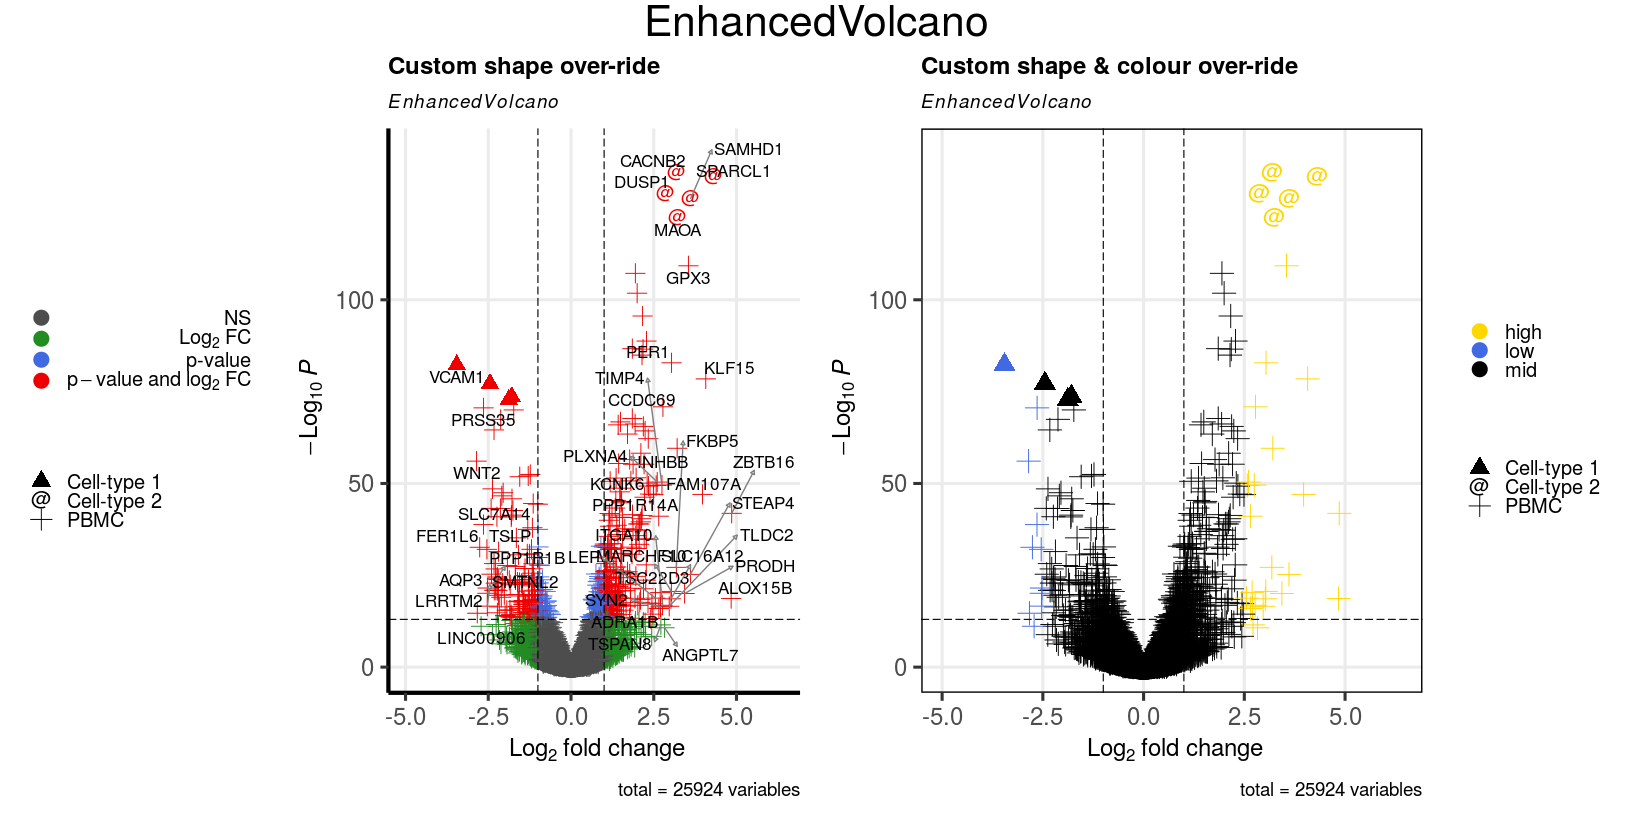
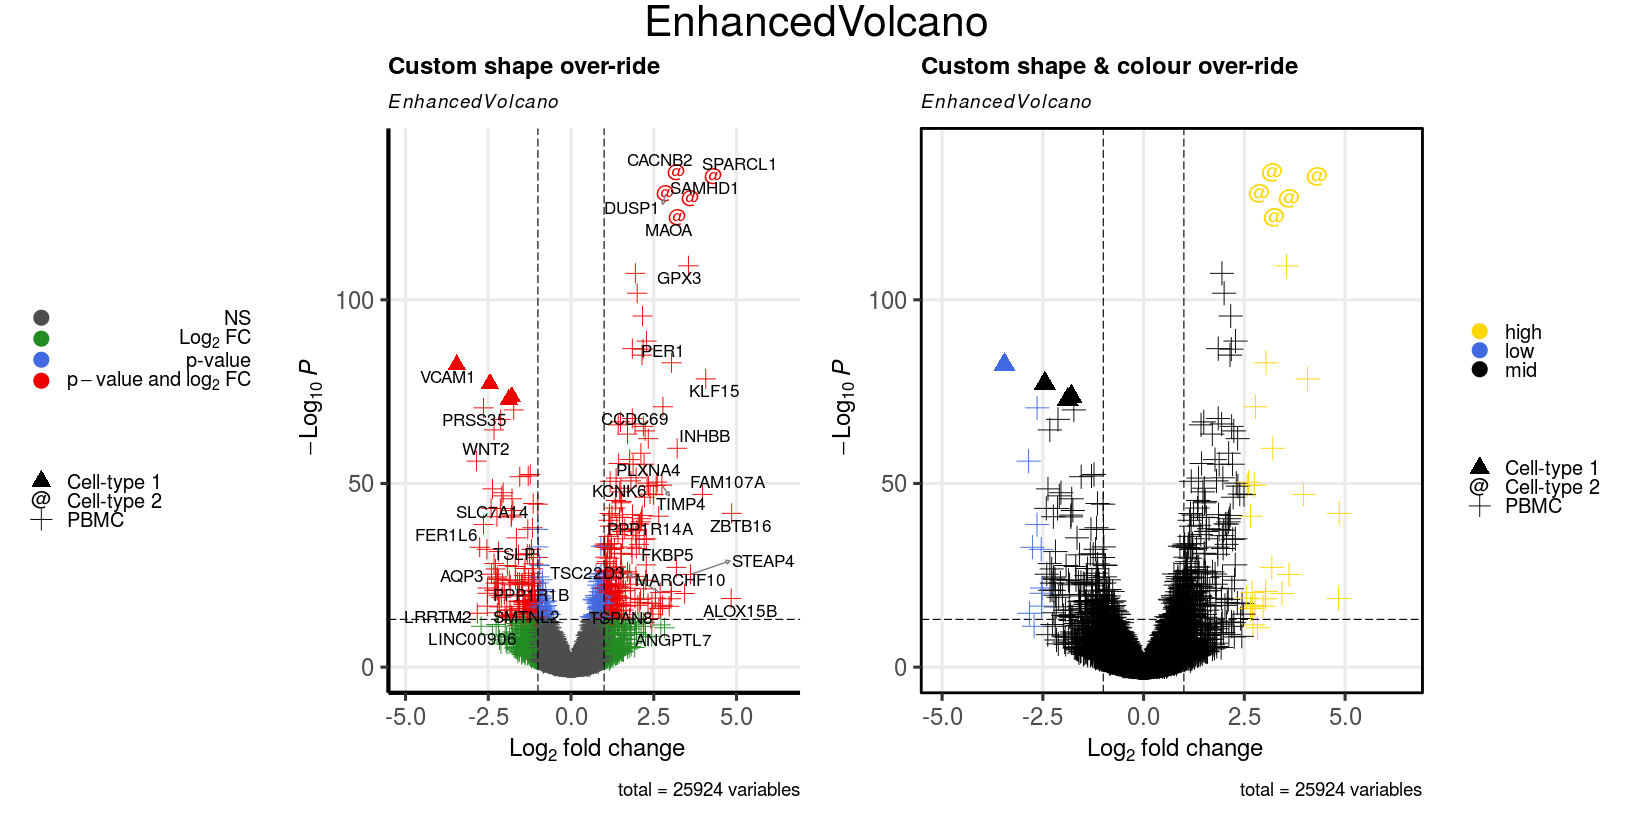
Minor updates to adjust for ggrepel changes

diff --git a/README.md b/README.md
@@ -2,7 +2,7 @@ EnhancedVolcano: publication-ready volcano plots with enhanced colouring
 and labeling
 ================
 Kevin Blighe, Sharmila Rana, Myles Lewis
-2021-01-15
+2021-04-10
 
 # Introduction
 
@@ -239,9 +239,9 @@ To make these more visible, we will also remove the default gridlines.
       10e-20 * 10e-30,
       10e-20 * 10e-60,
       10e-20 * 10e-90),
-    hlineCol = c('pink', 'red', 'red2', 'red4'),
+    hlineCol = c('pink', 'hotpink', 'purple', 'black'),
     hlineType = c('solid', 'longdash', 'dotdash', 'dotted'),
-    hlineWidth = c(4, 3, 2, 1),
+    hlineWidth = c(1.0, 1.5, 2.0, 2.5),
     gridlines.major = FALSE,
     gridlines.minor = FALSE)
 ```
@@ -786,40 +786,41 @@ sessionInfo()
     ## other attached packages:
     ##  [1] pasilla_1.16.0              gridExtra_2.3              
     ##  [3] DESeq2_1.28.1               org.Hs.eg.db_3.11.4        
-    ##  [5] AnnotationDbi_1.50.0        magrittr_1.5               
-    ##  [7] airway_1.8.0                SummarizedExperiment_1.18.1
-    ##  [9] DelayedArray_0.14.0         matrixStats_0.56.0         
+    ##  [5] AnnotationDbi_1.53.0        magrittr_2.0.1             
+    ##  [7] airway_1.8.0                SummarizedExperiment_1.18.2
+    ##  [9] DelayedArray_0.14.1         matrixStats_0.57.0         
     ## [11] Biobase_2.48.0              GenomicRanges_1.40.0       
     ## [13] GenomeInfoDb_1.24.2         IRanges_2.22.2             
     ## [15] S4Vectors_0.26.1            BiocGenerics_0.34.0        
-    ## [17] EnhancedVolcano_1.9.1       ggrepel_0.8.2              
-    ## [19] ggplot2_3.3.2               knitr_1.29                 
+    ## [17] EnhancedVolcano_1.9.7       ggrepel_0.9.1              
+    ## [19] ggplot2_3.3.3               knitr_1.31                 
     ## 
     ## loaded via a namespace (and not attached):
-    ##  [1] maps_3.3.0             splines_4.0.3          bit64_0.9-7           
-    ##  [4] highr_0.8              blob_1.2.1             GenomeInfoDbData_1.2.3
-    ##  [7] vipor_0.4.5            yaml_2.2.1             Rttf2pt1_1.3.8        
-    ## [10] pillar_1.4.4           RSQLite_2.2.0          lattice_0.20-41       
-    ## [13] glue_1.4.1             extrafontdb_1.0        digest_0.6.25         
-    ## [16] RColorBrewer_1.1-2     XVector_0.28.0         colorspace_1.4-1      
-    ## [19] htmltools_0.5.0        Matrix_1.2-18          XML_3.99-0.3          
-    ## [22] pkgconfig_2.0.3        genefilter_1.70.0      zlibbioc_1.34.0       
-    ## [25] xtable_1.8-4           purrr_0.3.4            scales_1.1.1          
-    ## [28] ggrastr_0.1.9          BiocParallel_1.22.0    tibble_3.0.1          
-    ## [31] annotate_1.66.0        farver_2.0.3           generics_0.0.2        
-    ## [34] ellipsis_0.3.1         withr_2.2.0            survival_3.2-3        
-    ## [37] crayon_1.3.4           memoise_1.1.0          evaluate_0.14         
-    ## [40] ash_1.0-15             MASS_7.3-53            beeswarm_0.2.3        
-    ## [43] tools_4.0.3            lifecycle_0.2.0        stringr_1.4.0         
-    ## [46] locfit_1.5-9.4         munsell_0.5.0          isoband_0.2.2         
-    ## [49] compiler_4.0.3         ggalt_0.4.0            rlang_0.4.6           
-    ## [52] RCurl_1.98-1.2         labeling_0.3           bitops_1.0-6          
-    ## [55] rmarkdown_2.3          proj4_1.0-10           gtable_0.3.0          
-    ## [58] DBI_1.1.0              R6_2.4.1               dplyr_1.0.0           
-    ## [61] bit_1.1-15.2           extrafont_0.17         KernSmooth_2.23-17    
-    ## [64] stringi_1.4.6          ggbeeswarm_0.6.0       Rcpp_1.0.4.6          
-    ## [67] geneplotter_1.66.0     vctrs_0.3.1            tidyselect_1.1.0      
-    ## [70] xfun_0.15
+    ##  [1] bitops_1.0-6           bit64_4.0.5            ash_1.0-15            
+    ##  [4] RColorBrewer_1.1-2     tools_4.0.3            R6_2.5.0              
+    ##  [7] KernSmooth_2.23-18     vipor_0.4.5            DBI_1.1.1             
+    ## [10] colorspace_2.0-0       withr_2.4.1            tidyselect_1.1.0      
+    ## [13] ggrastr_0.2.3          ggalt_0.4.0            bit_4.0.4             
+    ## [16] compiler_4.0.3         extrafontdb_1.0        isoband_0.2.3         
+    ## [19] labeling_0.4.2         scales_1.1.1           proj4_1.0-10.1        
+    ## [22] genefilter_1.70.0      stringr_1.4.0          digest_0.6.27         
+    ## [25] rmarkdown_2.6          XVector_0.28.0         pkgconfig_2.0.3       
+    ## [28] htmltools_0.5.1.1      extrafont_0.17         fastmap_1.1.0         
+    ## [31] highr_0.8              maps_3.3.0             rlang_0.4.10          
+    ## [34] RSQLite_2.2.3          generics_0.1.0         farver_2.0.3          
+    ## [37] BiocParallel_1.22.0    dplyr_1.0.3            RCurl_1.98-1.2        
+    ## [40] GenomeInfoDbData_1.2.3 Matrix_1.3-2           Rcpp_1.0.6            
+    ## [43] ggbeeswarm_0.6.0       munsell_0.5.0          lifecycle_0.2.0       
+    ## [46] stringi_1.5.3          yaml_2.2.1             MASS_7.3-53           
+    ## [49] zlibbioc_1.34.0        blob_1.2.1             crayon_1.3.4          
+    ## [52] lattice_0.20-41        splines_4.0.3          annotate_1.66.0       
+    ## [55] locfit_1.5-9.4         pillar_1.4.7           geneplotter_1.66.0    
+    ## [58] XML_3.99-0.5           glue_1.4.2             evaluate_0.14         
+    ## [61] vctrs_0.3.6            Rttf2pt1_1.3.8         gtable_0.3.0          
+    ## [64] purrr_0.3.4            assertthat_0.2.1       cachem_1.0.1          
+    ## [67] xfun_0.20              xtable_1.8-4           survival_3.2-7        
+    ## [70] tibble_3.0.1           beeswarm_0.2.3         memoise_2.0.0         
+    ## [73] ellipsis_0.3.1
 
 # References
 
